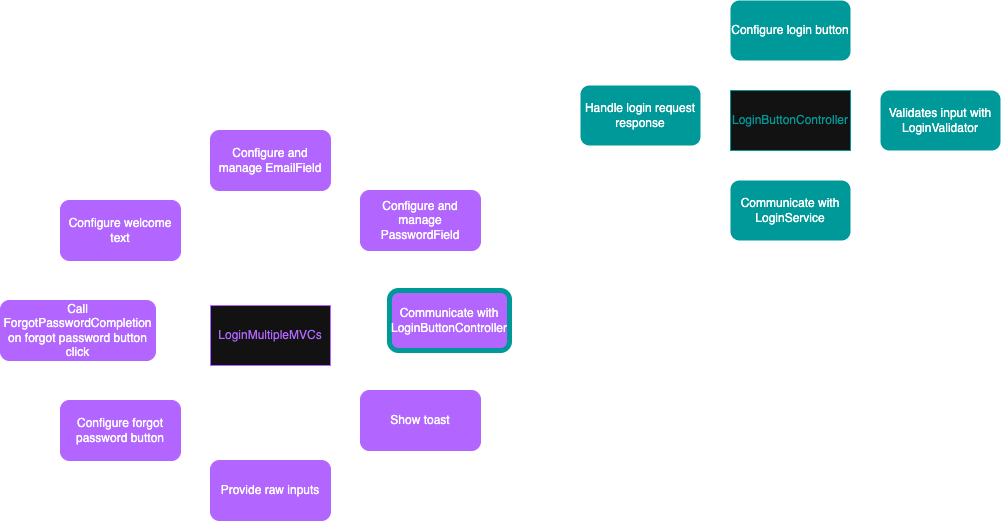
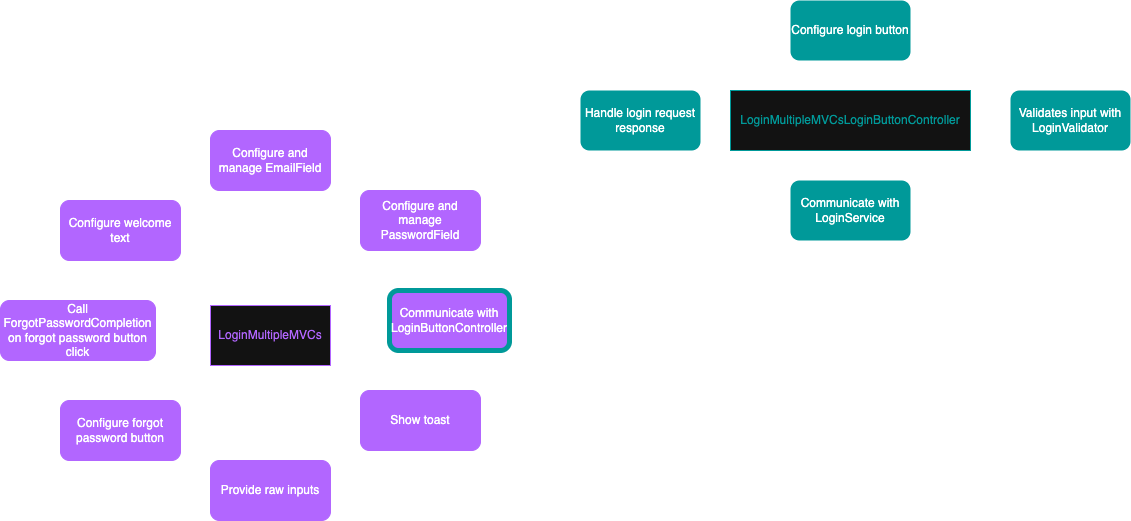
Renamed `LoginButtonController` to `LoginMultipleMVCsLoginButtonController

diff --git a/ECommerceScreens/ECommerceScreens/Login/MultipleMVCs/LoginMultipleMVCsComposer.swift b/ECommerceScreens/ECommerceScreens/Login/MultipleMVCs/LoginMultipleMVCsComposer.swift
@@ -15,7 +15,7 @@ public class LoginMultipleMVCsComposer {
         
         let vc = LoginMultipleMVCs(toast: toast,
                                    onForgotPasswordTap: onForgotPasswrdTap)
-        let loginButtonController: LoginButtonController = LoginButtonController(service: service,
+        let loginButtonController: LoginMultipleMVCsLoginButtonController = LoginMultipleMVCsLoginButtonController(service: service,
                                                                                  loginCompletion: loginCompletion,
                                                                                  showToast: {[weak vc] message in
             vc?.showToast(message: message)

diff --git a/ECommerceScreens/ECommerceScreens/Login/LoginMVVM/LoginMVVMComposer.swift b/ECommerceScreens/ECommerceScreens/Login/LoginMVVM/LoginMVVMComposer.swift
@@ -15,7 +15,7 @@ public class LoginMVVMComposer {
         
         let vc = LoginMVVM(toast: toast,
                            onForgotPasswordTap: onForgotPasswrdTap)
-        let loginButtonController: LoginButtonController = LoginButtonController(service: service,
+        let loginButtonController: LoginMultipleMVCsLoginButtonController = LoginMultipleMVCsLoginButtonController(service: service,
                                                                                  loginCompletion: loginCompletion,
                                                                                  showToast: {[weak vc] message in
             vc?.showToast(message: message)

diff --git a/ECommerceScreens/ECommerceScreens/Login/MultipleMVCs/LoginMultipleMVCs.swift b/ECommerceScreens/ECommerceScreens/Login/MultipleMVCs/LoginMultipleMVCs.swift
@@ -40,7 +40,7 @@ public class LoginMultipleMVCs: UIViewController {
         button.addTarget(self, action: #selector(forgotPasswordTap), for: .touchUpInside)
         return button
     }()
-    var loginButtonController: LoginButtonController?
+    var loginButtonController: LoginMultipleMVCsLoginButtonController?
     var loginButton: ProgressButton? {
         loginButtonController?.view
     }

diff --git a/ECommerceScreens/ECommerceScreens/Login/LoginMVVM/LoginMVVM.swift b/ECommerceScreens/ECommerceScreens/Login/LoginMVVM/LoginMVVM.swift
@@ -40,7 +40,7 @@ public class LoginMVVM: UIViewController {
         button.addTarget(self, action: #selector(forgotPasswordTap), for: .touchUpInside)
         return button
     }()
-    var loginButtonController: LoginButtonController?
+    var loginButtonController: LoginMultipleMVCsLoginButtonController?
     var loginButton: ProgressButton? {
         loginButtonController?.view
     }

diff --git a/ECommerceScreens/ECommerceScreens/Login/MultipleMVCs/LoginMultipleMVCsLoginButtonController.swift b/ECommerceScreens/ECommerceScreens/Login/MultipleMVCs/LoginMultipleMVCsLoginButtonController.swift
@@ -7,7 +7,7 @@
 
 import UIKit
 
-class LoginButtonController {
+class LoginMultipleMVCsLoginButtonController {
     public typealias ShowToast = (ToastMessage) -> Void
     public typealias GetRawInputs = () -> (String?, String?)?
     lazy var view: ProgressButton = {
